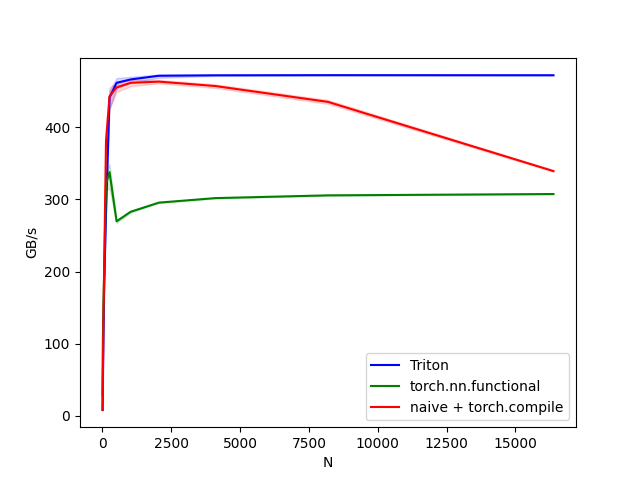
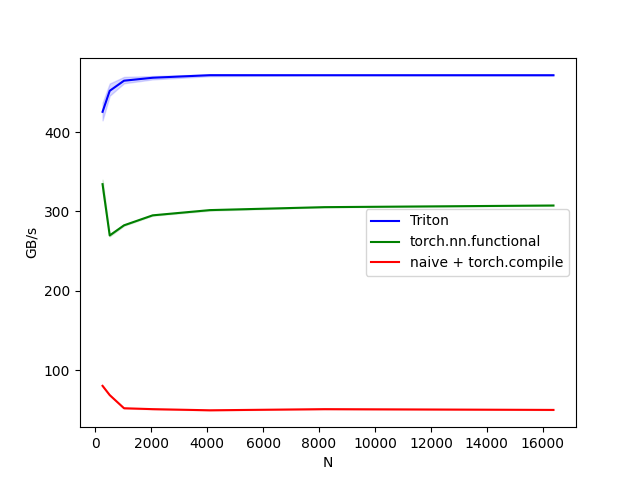
bwd kernel

diff --git a/benchmarks/results.html b/benchmarks/results.html
@@ -1,4 +1,6 @@
 <html><body>
 <image src="cos_norm_fwd_fp16.png"/>
 <image src="cos_norm_fwd_fp32.png"/>
+<image src="cos_norm_bwd_fp16.png"/>
+<image src="cos_norm_bwd_fp32.png"/>
 </body></html>

diff --git a/kernels.py b/kernels.py
@@ -1,6 +1,7 @@
 import math
 
 import torch
+#print(torch.__version__)
 import torch.nn as nn
 import torch.nn.functional as F
 
@@ -10,7 +11,7 @@ import triton.language as tl
 DEVICE = torch.device(f'cuda:{torch.cuda.current_device()}')
 
 @torch.compile
-def cosine_norm_naive(x: torch.Tensor, dim: int = -1) -> torch.Tensor:
+def cosine_norm_forward_naive(x: torch.Tensor, dim: int = -1) -> torch.Tensor:
     """Places vectors onto the unit-hypersphere"""
     with torch.no_grad():
         # calculate the magnitude of the vectors
@@ -42,6 +43,7 @@ def cosine_norm_backward_naive(x: torch.Tensor, grad_output: torch.Tensor, dim: 
 def cos_norm_fwd(
     x_ptr,
     y_ptr,
+    norm_ptr,
     stride_M, stride_N,
     N,
     BLOCK_SIZE: tl.constexpr
@@ -49,25 +51,47 @@ def cos_norm_fwd(
     row = tl.program_id(0)
     x_ptr += row * stride_M
     y_ptr += row * stride_M
+    norm_ptr += row
     cols = tl.arange(0, BLOCK_SIZE) * stride_N # stride since we never asserted x.is_contiguous()
     mask = cols < N
 
-    # compute L_2 norm
     x = tl.load(x_ptr + cols, mask=mask, other=0.).to(tl.float32)
+
+    # compute L_2 norm & normalize
     norm = tl.sqrt(tl.sum(x * x, axis=0))
     eps: tl.constexpr = 1e-12
     y = x / (norm + eps)
 
+    tl.store(norm_ptr, norm)
     tl.store(y_ptr + cols, y.to(y_ptr.type.element_ty), mask=mask)
 
 @triton.jit
-def cos_norm_fwd(
-    x_ptr, dLdx, y, dLdy,
+def cos_norm_bwd(
+    x_ptr, dLdx_ptr, y_ptr, dLdy_ptr, norm_ptr,
     stride_M, stride_N,
     N,
     BLOCK_SIZE: tl.constexpr
 ):
-    pass
+    row = tl.program_id(0)
+    x_ptr += row * stride_M
+    dLdx_ptr += row * stride_M
+    y_ptr += row * stride_M
+    dLdy_ptr += row * stride_M
+    norm_ptr += row
+    cols = tl.arange(0, BLOCK_SIZE) * stride_N # stride since we never asserted x.is_contiguous()
+    mask = cols < N
+
+    x = tl.load(x_ptr + cols, mask=mask, other=0.).to(tl.float32)
+    dLdy = tl.load(dLdy_ptr + cols, mask=mask, other=0.).to(tl.float32)
+    norm = tl.load(norm_ptr) # fp32
+
+    # compute grad
+    y = x / norm
+    dLdy_dot_y = tl.sum(y * dLdy, axis=0)
+    dLdx = (dLdy - y * dLdy_dot_y) / norm
+    
+    tl.store(dLdx_ptr + cols, dLdx.to(x_ptr.type.element_ty), mask=mask)
+
 
 
 # used to derive our block size
@@ -86,30 +110,31 @@ class _cosine_norm_triton(torch.autograd.Function):
         assert max_entries >= block_size, f"cosine norm kernel only supports vectors up to {max_entries}"
         # H100s have 256kb of SRAM per SM so this would fit a model dimension of 64 thousand at fp32, plenty
 
-        # pre-allocate output
+        # pre-allocate output & norm storage for bwd pass
         y = torch.empty_like(x)
+        norm = torch.empty((M,), device=x.device, dtype=torch.float32, requires_grad=False)
 
         # each row gets it own PID
-        cos_norm_fwd[(M,)](x, y, x.stride(-2), x.stride(-1), N, BLOCK_SIZE=block_size)
+        cos_norm_fwd[(M,)](x, y, norm, x.stride(-2), x.stride(-1), N, BLOCK_SIZE=block_size)
 
-        ctx.save_for_backward(x)
-        ctx.M, ctx.N, ctx.block_size = M, N, ctx.block_size
+        ctx.save_for_backward(x, y, norm)
+        ctx.M, ctx.N, ctx.block_size = M, N, block_size
         return y
 
     @staticmethod
     def backward(ctx, dLdy):
-        x, = ctx.saved_tensors
+        x, y, norm = ctx.saved_tensors
         M, N, block_size = ctx.M, ctx.N, ctx.block_size
 
         # pre-allocate gradient
         dLdx = torch.empty_like(x)
-"""
+        
         cos_norm_bwd[(M,)](
-            x, dLdx, y, dLdy,
+            x, dLdx, y, dLdy, norm,
             x.stride(-2), x.stride(-1),
             N,
             BLOCK_SIZE=block_size
-        )"""
+        )
 
         return dLdx
 
@@ -127,95 +152,98 @@ def cosine_norm_triton_(x: torch.Tensor) -> torch.Tensor:
     assert max_entries >= block_size, f"cosine norm kernel only supports vectors up to {max_entries}"
     # H100s have 256kb of SRAM per SM so this would fit a model dimension of 64 thousand at fp32, plenty
 
+    # kernel requires we pre-allocate tensor to store norms for backward pass # TODO make inplace separate kernel
+    _ = torch.empty((M,), dtype=torch.float32, device=x.device, requires_grad=False)
+
     # each row gets it own PID
-    cos_norm_fwd[(M,)](x, x, x.stride(-2), x.stride(-1), N, BLOCK_SIZE=block_size)
+    cos_norm_fwd[(M,)](x, x, _, x.stride(-2), x.stride(-1), N, BLOCK_SIZE=block_size)
 
     return x
 
 
 def test_cos_norm(M, N, dtype, device=DEVICE):
     # create data
-    x = torch.randn((M, N), dtype=dtype, device=device, requires_grad=True)
-    x_torch = x.clone().detach().requires_grad_(True)
-    x_naive = x.clone().detach().requires_grad_(True)
-    x_inplace = x.clone().detach().requires_grad_(False)
+    x_triton = torch.randn((M, N), dtype=dtype, device=device, requires_grad=True)
+    x_torch = x_triton.clone().detach().requires_grad_(True)
+    x_naive = x_triton.clone().detach().requires_grad_(True)
+    x_inplace = x_triton.clone().detach().requires_grad_(False)
     
     # run each
     y_torch = torch.nn.functional.normalize(x_torch, p=2, dim=1)
-    y_naive = cosine_norm_naive(x_naive)
-    y_triton = cosine_norm_triton(x)
+    y_naive = cosine_norm_forward_naive(x_naive)
+    y_triton = cosine_norm_triton(x_triton)
     y_triton_inplace = cosine_norm_triton_(x_inplace)
 
-    # test out-of-place results
+    # test each
     torch.testing.assert_close(y_torch, y_naive, atol=1e-3, rtol=1e-3)
     print(f"✓ Naive implementation passed cos norm test (M={M}, N={N}, dtype={dtype})")
-    
     torch.testing.assert_close(y_torch, y_triton, atol=1e-3, rtol=1e-3)
     print(f"✓ Triton implementation passed cos norm test (M={M}, N={N}, dtype={dtype})")
-    
-    # test in-place results
     torch.testing.assert_close(y_torch, y_triton_inplace, atol=1e-3, rtol=1e-3)
     print(f"✓ Triton in-place implementation passed cos norm test (M={M}, N={N}, dtype={dtype})")
-    
-    # verify in-place operation actually modified the input
     assert x_inplace is y_triton_inplace, "In-place operation failed to modify input tensor"
     print(f"✓ Verified in-place operation modified input tensor")
     
     # Test backward pass
-    # Create a gradient tensor
-    grad_output = torch.randn_like(x)
-    
-    # Compute backward pass with PyTorch's autograd
+    grad_output = torch.randn_like(x_triton)
     y_torch.backward(grad_output, retain_graph=True)
-    torch_grad = x_torch.grad.clone()
-    
-    # Compute backward pass with our naive implementation
+    torch_grad = x_torch.grad.clone().detach()
     naive_grad = cosine_norm_backward_naive(x_naive.detach(), grad_output, dim=1)
+    y_triton.backward(grad_output, retain_graph=True)
+    triton_grad = x_triton.grad.clone().detach()
     
     # Compare gradients
     torch.testing.assert_close(torch_grad, naive_grad, atol=1e-3, rtol=1e-3)
     print(f"✓ Naive backward implementation passed gradient test (M={M}, N={N}, dtype={dtype})")
+    torch.testing.assert_close(torch_grad, triton_grad, atol=1e-3, rtol=1e-3)
+    print(f"✓ Triton backward implementation passed gradient test (M={M}, N={N}, dtype={dtype})")
 
 
 def previous_power_two(n):
     return int(math.log(n, 2))
 
 configs = []
-for dtype_bytes in [2, 4]:
-    configs.append(
-        triton.testing.Benchmark(
-            x_names=['N'],
-            x_vals=[2 ** i for i in range(1, previous_power_two(sram_per_sm // dtype_bytes))], 
-            line_arg='provider',
-            line_vals=['triton', 'torch', 'naive'],
-            line_names=['Triton', 'torch.nn.functional', 'naive + torch.compile'],
-            styles=[('blue', '-'), ('green', '-'), ('red', '-')],
-            ylabel='GB/s',
-            plot_name=f'cos_norm_fwd_fp{8*dtype_bytes}',
-            args={"dtype_bytes": dtype_bytes}, 
-        ))
+for mode in ["fwd", "bwd"]:
+    for dtype_bytes in [2, 4]:
+        configs.append(
+            triton.testing.Benchmark(
+                x_names=['N'],
+                x_vals=[2 ** i for i in range(8, previous_power_two(sram_per_sm // dtype_bytes))], 
+                line_arg='provider',
+                line_vals=['triton', 'torch', 'naive'],
+                line_names=['Triton', 'torch.nn.functional', 'naive + torch.compile'],
+                styles=[('blue', '-'), ('green', '-'), ('red', '-')],
+                ylabel='GB/s',
+                plot_name=f'cos_norm_{mode}_fp{8*dtype_bytes}',
+                args={"mode": mode, "dtype_bytes": dtype_bytes}, 
+            ))
 @triton.testing.perf_report(configs)
-def benchmark(N, provider, dtype_bytes, device=DEVICE):
+def benchmark(N, provider, mode, dtype_bytes, device=DEVICE):
     # create data
     assert dtype_bytes in [2, 4]
     dtype = torch.float16 if dtype_bytes == 2 else torch.float32
-    x = torch.randn((32*1024, N), dtype=dtype, device=device, requires_grad=False)
+    x = torch.randn((32*1024, N), dtype=dtype, device=device, requires_grad=True)
 
     # confidence itnerval for testing
     quantiles = [0.5, 0.001, 0.999]
 
-    def y_fwd():
-        if provider == "triton":
-            return cosine_norm_triton(x)
-            #return torch.ops.mylib.cos_norm.default(x)
-        if provider == "torch":
-            return torch.nn.functional.normalize(x, p=2, dim=1)
+    if provider == "torch":
+        fn = lambda: torch.nn.functional.normalize(x, p=2, dim=1)
+    if provider == "naive":
+        fn = lambda: cosine_norm_forward_naive(x)
+    if provider == "triton":
+        fn = lambda: cosine_norm_triton(x)
+    elif mode == "bwd":
+        y = fn()
+        dLdy = torch.randn_like(y)
         if provider == "naive":
-            return cosine_norm_naive(x)
-
+            fn = lambda: cosine_norm_backward_naive(x, dLdy)
+        else:
+            fn = lambda: y.backward(dLdy, retain_graph=True)
+    
     # benchmark
-    ms, min_ms, max_ms = triton.testing.do_bench(y_fwd, quantiles=quantiles, rep=500)
-    gbps = lambda ms: 2 * x.numel() * x.element_size() * 1e-9 / (ms * 1e-3)
+    ms, min_ms, max_ms = triton.testing.do_bench(fn, quantiles=quantiles)
+    gbps = lambda ms: (2 if mode == "fwd" else 3) * x.numel() * x.element_size() * 1e-9 / (ms * 1e-3)
     return gbps(ms), gbps(max_ms), gbps(min_ms)
 
 
